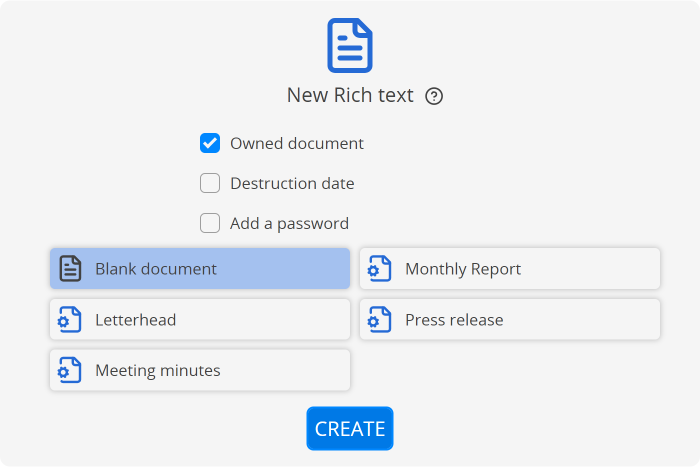
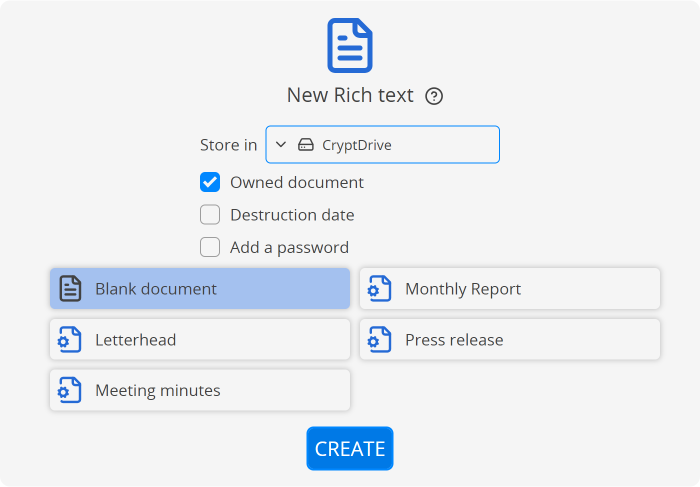
Update creation ss + explain picker functionality

Changed region(s): [[0.06, 0.03, 0.75, 0.8394], [0.51, 0.6595, 0.72, 0.7495], [0.42, 0.8694, 0.57, 0.9893]]

diff --git a/user_guide/apps/general.rst b/user_guide/apps/general.rst
@@ -24,6 +24,18 @@ To create a new document:
 The creation screen offers a number of options when new documents are
 created.
 
+-  **Store in**: Choose where to store the new document:
+
+   -  **CryptDrive** (default): Store the document in your CryptDrive. If it is created as an owned document, you are its only initial :ref:`owner <owners>`.
+
+   -  **Team**: Store the document in a :ref:`team <teams>` drive.
+
+      .. attention::
+
+         Creating an owned document in your team's drive will give ownership to the team.
+
+   -  **Do not store**: Do not add the document to any drive. This option does not guarantee access if the edit/author link is lost. If the document is not stored in any drive, it is destroyed from the database after 90 days of inactivity (the length of this delay can be set by the service administrators).
+
 -  **Owned document**: Create the new document as :ref:`owner <owners>`. If the document is created without an owner this setting cannot be modified.
 
 -  **Expiring document**: Specify an expiry date after which the document will be destroyed. This setting cannot be modified after the document is created.
